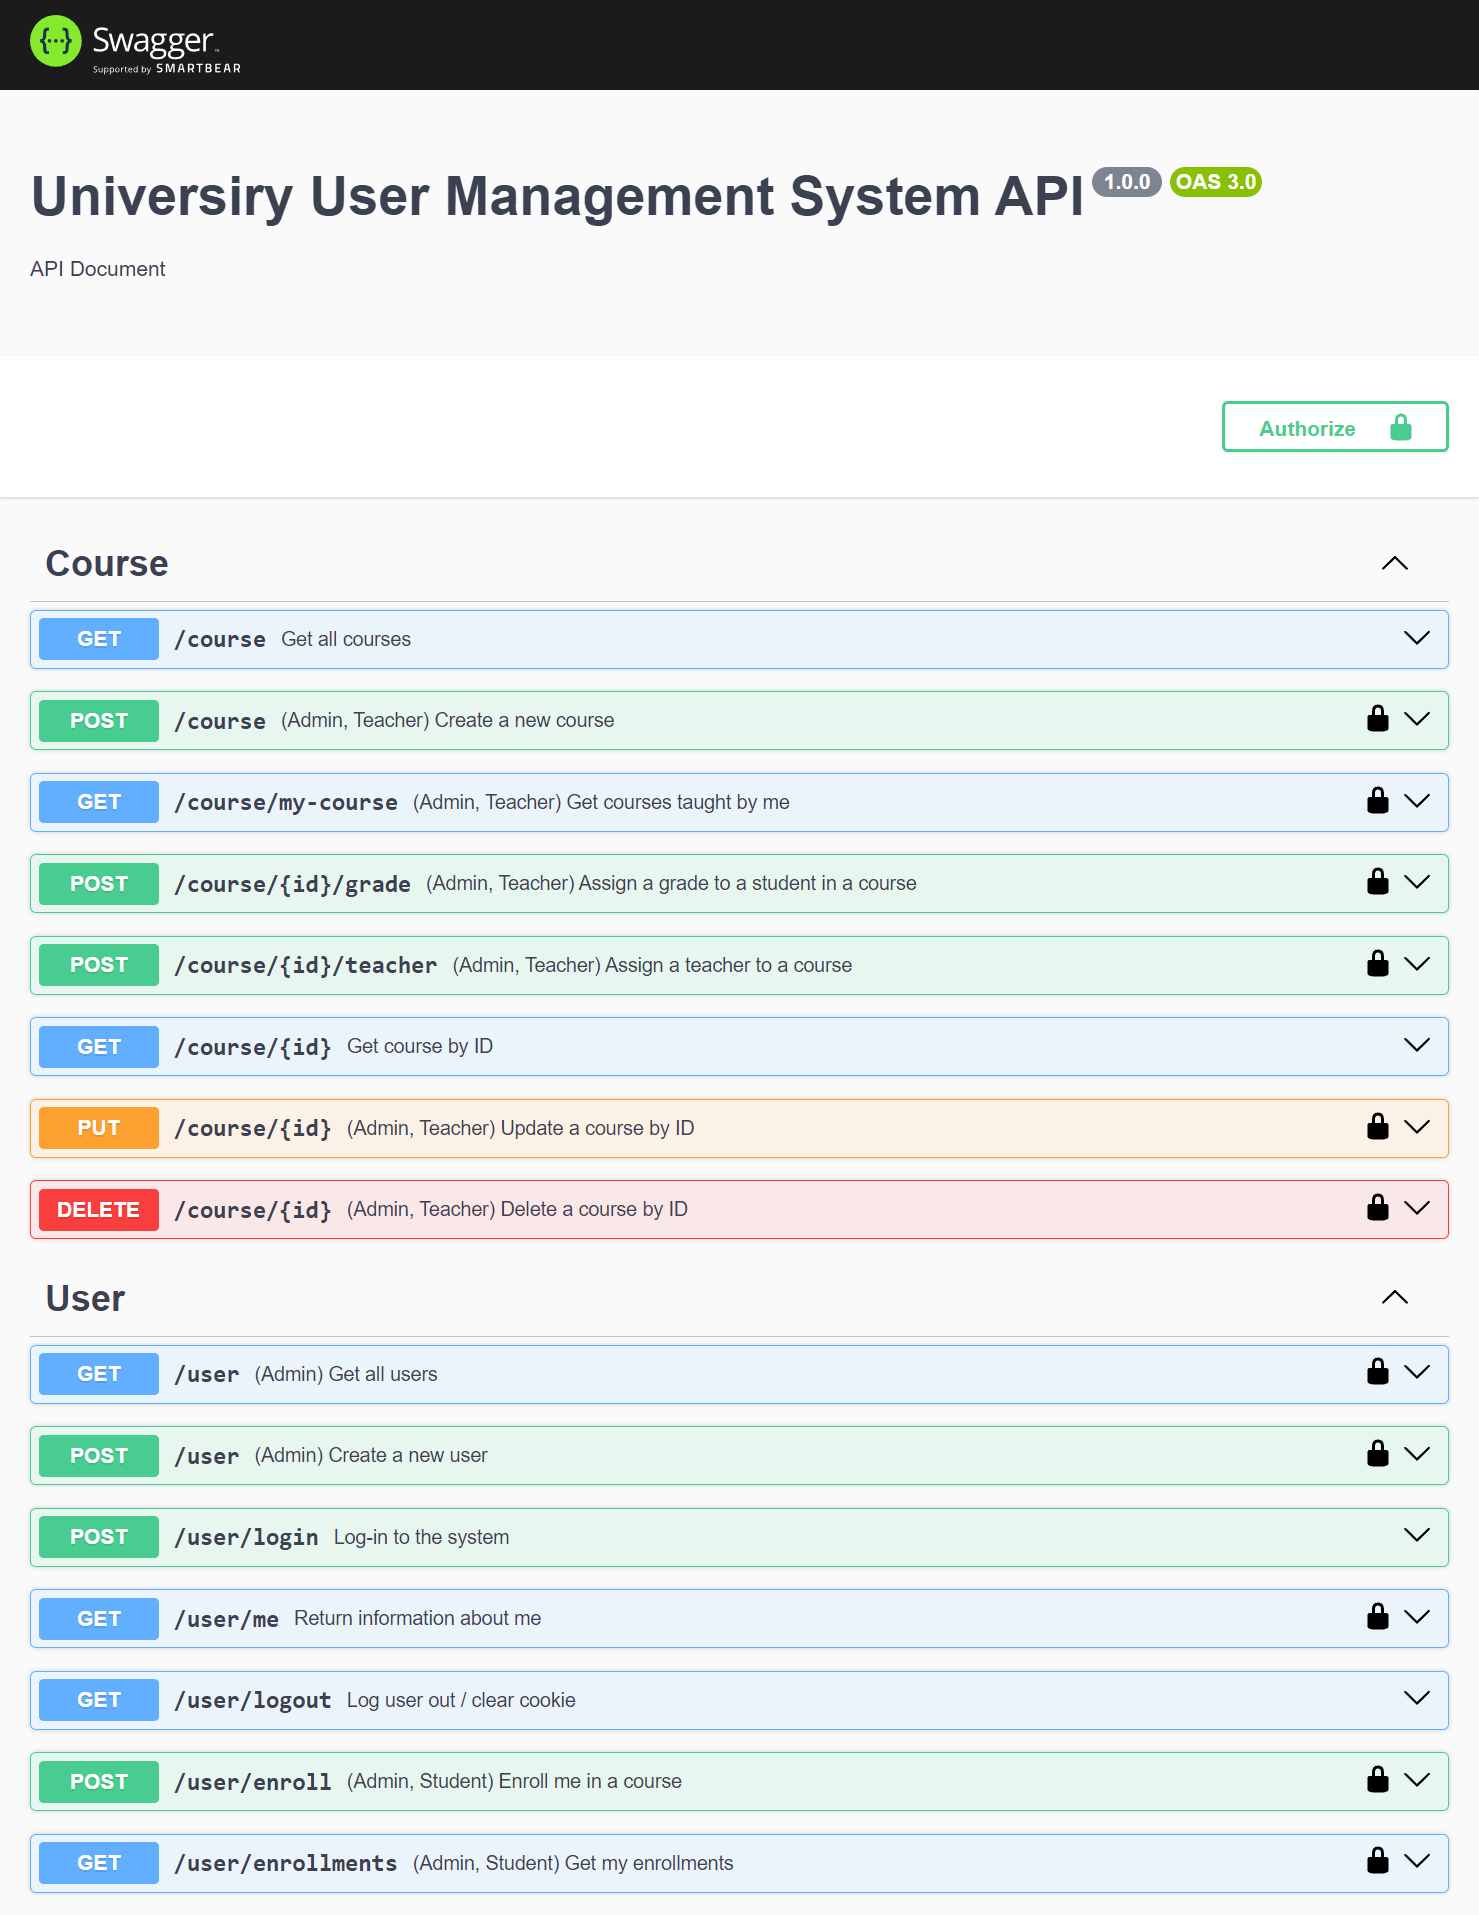
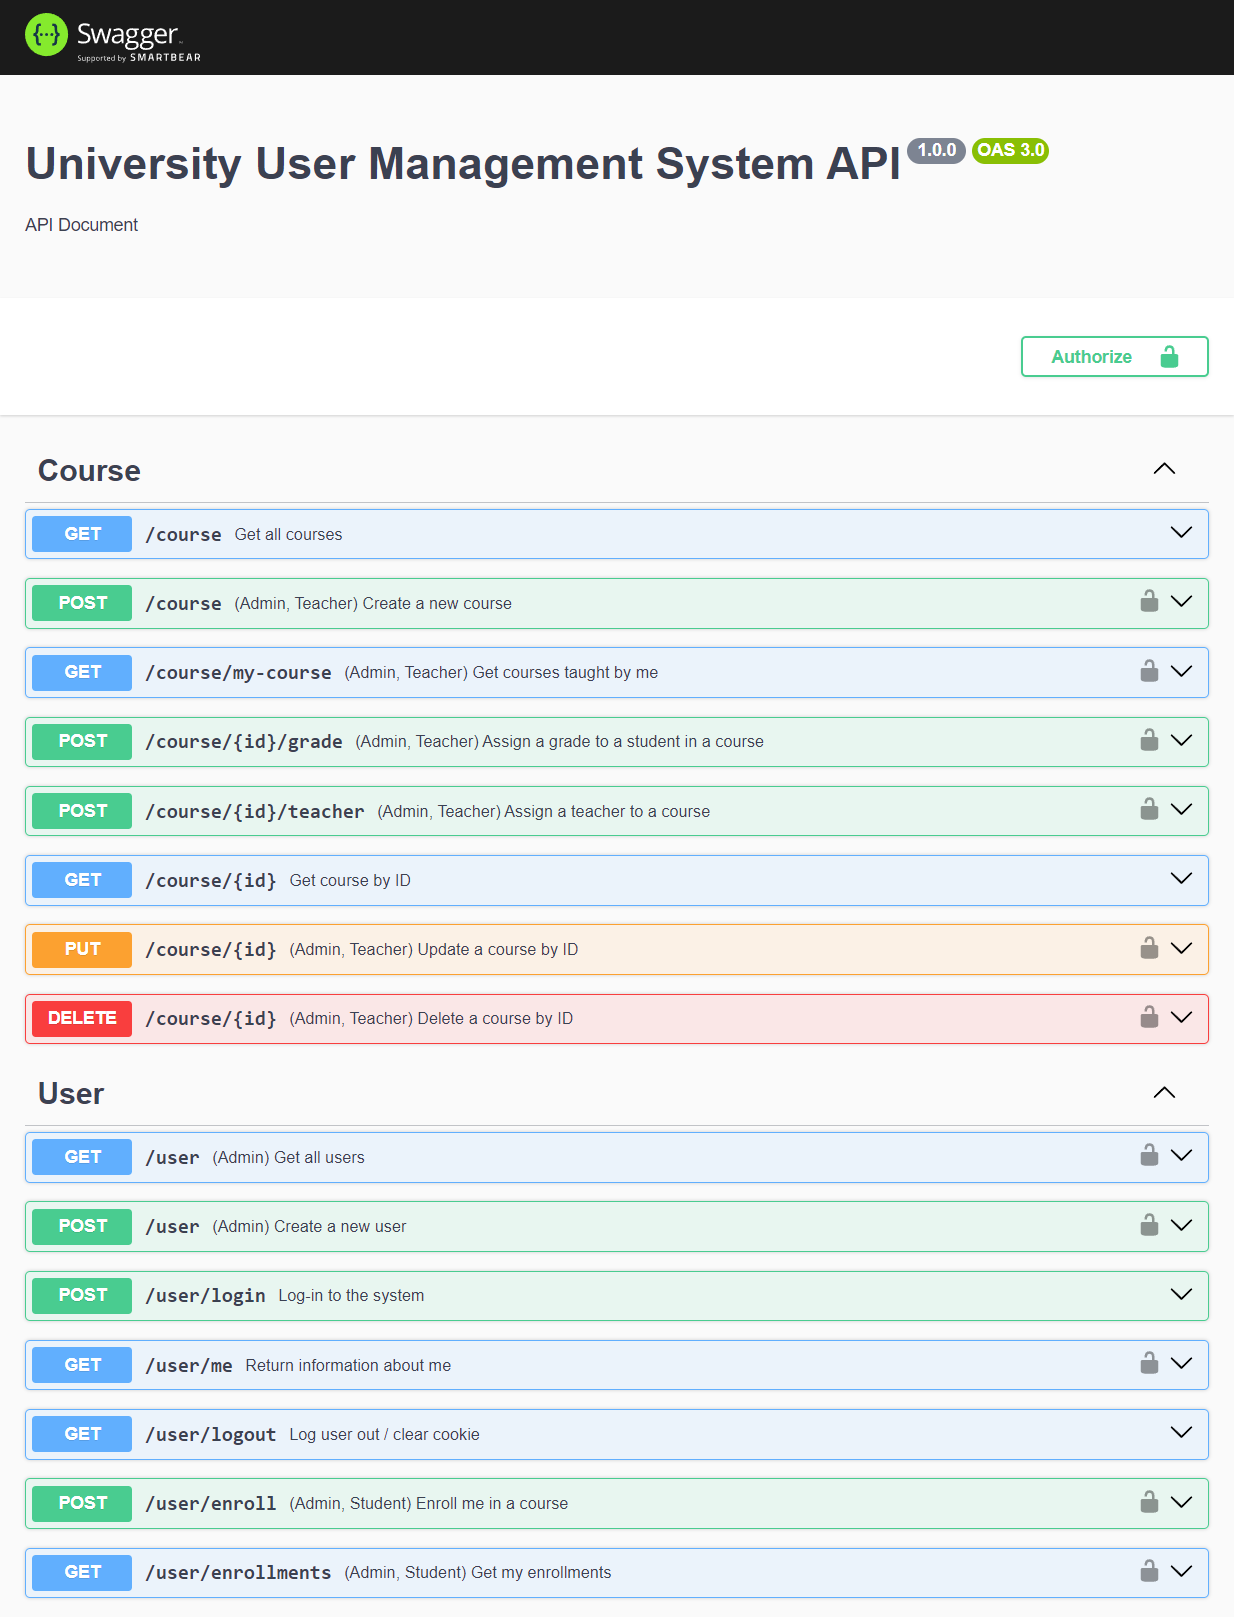
fix: API doc typo

diff --git a/server/server.js b/server/server.js
@@ -19,7 +19,7 @@ const swaggerOptions = {
   swaggerDefinition: {
     openapi: '3.0.0',
     info: {
-      title: 'Universiry User Management System API',
+      title: 'University User Management System API',
       version: '1.0.0',
       description: 'API Document'
     }
